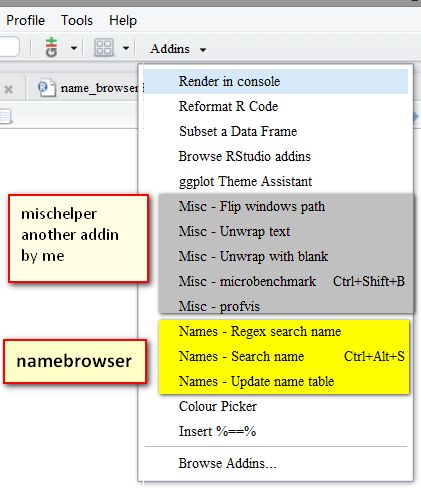
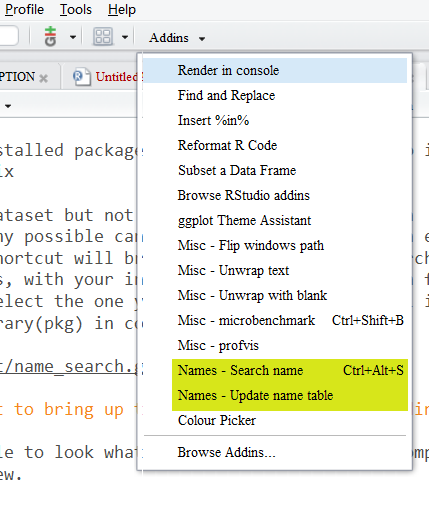
update screenshot

diff --git a/README.md b/README.md
@@ -1,9 +1,11 @@
 # namebrowser
 RStudio Addin that scan all installed packages for names, search name to insert `library(pkg)` or `pkg::` prefix
 
+![search_normal_prefix](/inst/screenshot/search_normal_prefix.gif)
+
 If you knew some function or dataset but not sure which package it is in (sometimes there seem to be many possible candidates), input the name in editor or console, press a keyboard shortcut will bring a pop up window to search all names in all installed packages, with your input as search term. You can further search and browse the table, select the one you want then the addin will insert the package prefix or run `library(pkg) in console automatically. 
 
-![name_search](/inst/screenshot/name_search.gif)
+![search_regex_lib](/inst/screenshot/search_regex_lib.gif)
 
 _Note: I used keyboard shortcut to bring up the dialog in the gif recording._
 
@@ -58,8 +60,6 @@ After you select a row, either
 - or click `Insert Package Prefix` button at bottom, just insert the full prefixed object name `pkg::name` to replace the input in source editor. This way you don't need to attach the package, and you still can check the help page for the name.
 
 Of course you can just browsing and searching through the name table to see what's available in certain package.
-
-![regex search](/inst/screenshot/regex.png)
 
 ### build name table
 
